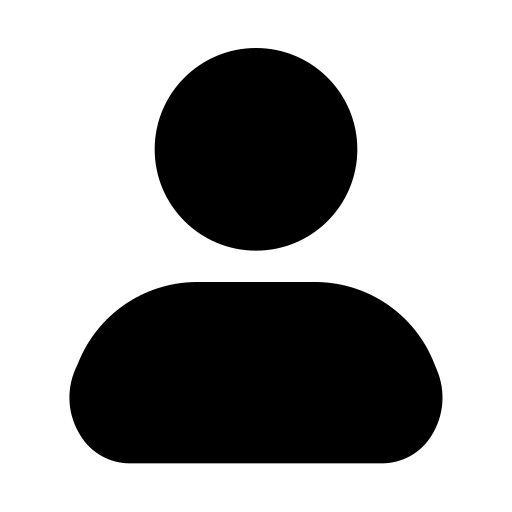
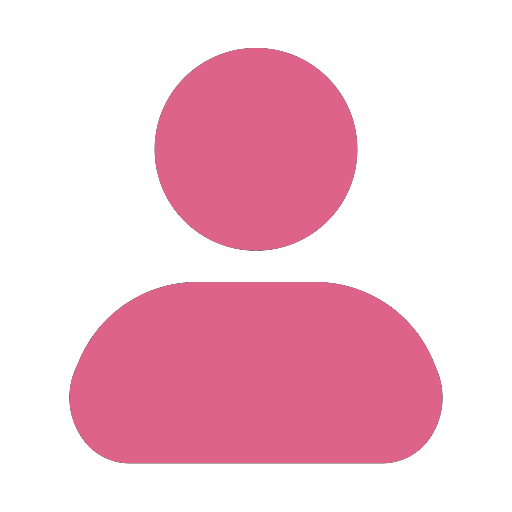
major css improvements

diff --git a/pass-manager/src/styles.css b/pass-manager/src/styles.css
@@ -1,14 +1,23 @@
+:root{
+  --primary-accent: #dd638a;
+  --primary-light: #f5bbc9;
+  --surface-color: #121212;
+  --surface-tonal: #282828;
+  --surface-light: #3f3f3f;
+}
+
 html, body{
   margin: 0;
   padding: 0;
+  height: 100%;
 }
 
 #accountContainer{
   display: grid;
   grid-template-columns: repeat(4, 1fr);
   grid-template-rows: repeat(4, 1fr);
-  width: 90%;
-  margin: 30px auto;
+  padding: 20px;
+  background-color: var(--surface-color);
 }
 
 #accountDiv{
@@ -19,14 +28,12 @@ html, body{
   flex-direction: column;
   border-radius: 10px;
   box-shadow: 0 4px 6px rgba(0, 0, 0, 0.1);
+  background-color: var(--surface-tonal);
 }
+
 #accountDiv p{
-  margin: 0px 5px;
-  font-size: 20px;
-}
-#accountDiv p:first-of-type{
   margin: 0px auto 25px auto;
-  color: gray;
+  color: white;
   font-size: 24px;
 }
 .addAccountDiv h1{
@@ -68,49 +75,50 @@ html, body{
   grid-template-areas:
   "sidebar header header"
   "sidebar main main"
-  "footer footer footer";
+  "sidebar main main";
   grid-template-columns: 1fr 4fr 4fr;
   grid-template-rows: 0.2fr 2fr 0.2fr;
+  height: 100%;
 }
 
 .sidebar{
   grid-area: sidebar;
-  background-color: #d3d3d3;
-  border-right: 1px solid #ccc;
+  background-color: #282828;
+  border-right: 1px solid var(--primary-accent);
   display: flex;
   align-items: center;
   flex-direction: column;
 }
 #new_btn{
-  padding: 10px;
-  color: white;
-  background-color: rgb(39, 39, 39);
-  font-size: 24px;
-  margin-top: 20px;
-  border: 1px solid gray;
-  border-radius: 10px;
+  color: var(--surface-color);
+  background-color: var(--primary-accent);
+  font-size: 16px;
+  border: none;
+  width: 80px;
+  height: 30px;
+  margin-left: 10px;
+  border-radius: 8px;
 }
 .header{
   grid-area: header;
-  background-color: #1e90ff;
-  border-bottom: 1px solid #ccc;
+  background-color: var(--surface-color);
+  border-bottom: 1px solid var(--primary-accent);
   display: flex;
   align-items: center;
-  padding: 10px;
 }
 .search_box{
   padding: 5px;
-  border: solid 1px gray;
+  border: none;
   border-radius: 5px;
   margin-left: 20px;
+  height: 20px;
+  font-size: 14px;
+  background-color: var(--surface-light);
+  color: var(--primary-light);
 }
 .main{
   grid-area: main;
-}
-.footer{
-  grid-area: footer;
-  background-color: orangered;
-  border: 1px solid;
+  overflow: auto;
 }
 
 .addAccountDiv{

diff --git a/pass-manager/src/index.html b/pass-manager/src/index.html
@@ -9,11 +9,12 @@
 <body>
     <div class="container" id="container">
         <div class="header">
-            <h1 class="h1" id="h1">Local Password Manager</h1>
+            <!-- <h1 class="h1" id="h1">Debug</h1> -->
+             <button id="new_btn">+ New</button>
             <input class="search_box" placeholder="Search"></input>
         </div>
         <div class="sidebar">
-            <button id="new_btn">+ New</button> 
+            <!-- FOLDERS GO HERE -->
         </div>
         <div class="main" id="accountContainer">
 

diff --git a/pass-manager/src/main.js b/pass-manager/src/main.js
@@ -1,3 +1,8 @@
+/* TODO: 
+         add containers option to new_account()
+         add containers option to account_info()
+*/
+
 const { invoke } = window.__TAURI__.core;
 
 let h1 = document.getElementById("h1");
